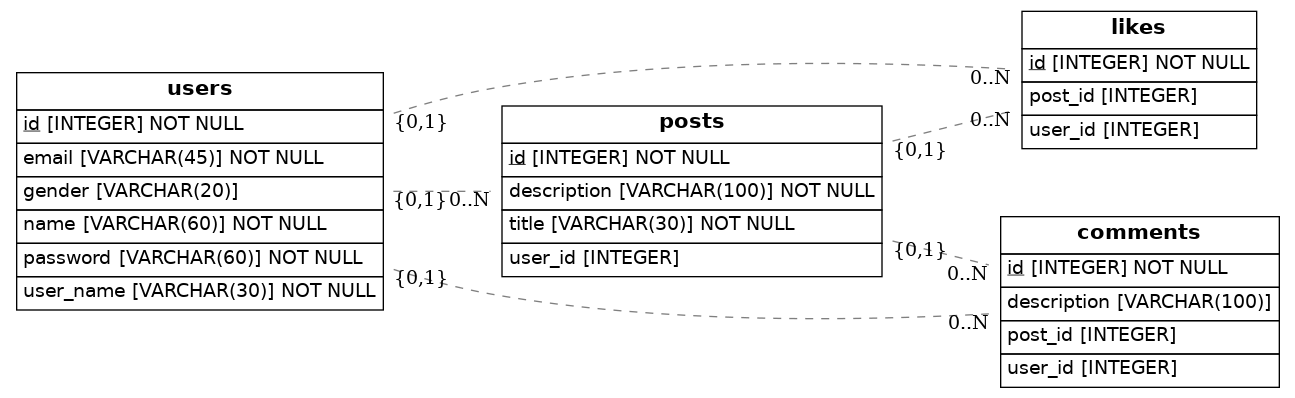
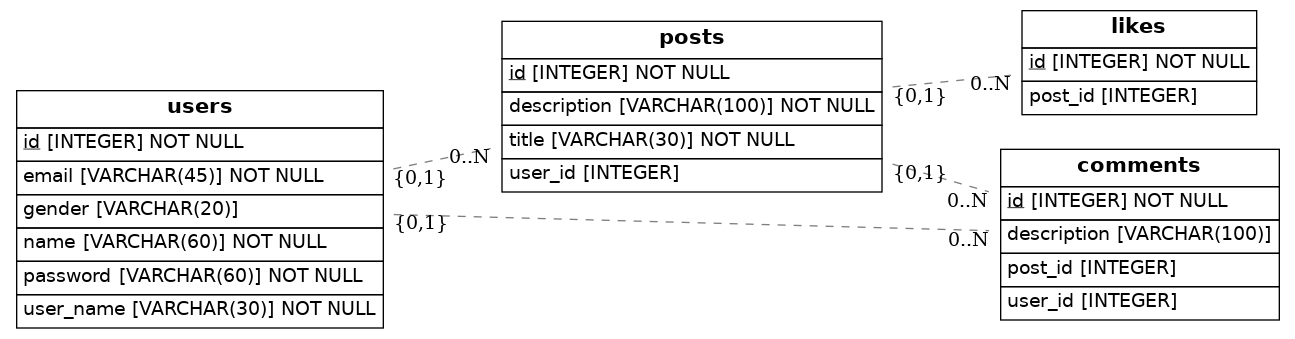
Elimine users de like

diff --git a/src/models.py b/src/models.py
@@ -28,9 +28,7 @@ class Like(Base):
     __tablename__ = 'likes'
     id = Column(Integer, primary_key=True)
     post_id = Column(Integer, ForeignKey('posts.id'))
-    user_id = Column(Integer, ForeignKey('users.id'))
     post = relationship(Post)
-    user = relationship(User)
 
 class Comment(Base):
     __tablename__ = 'comments'
